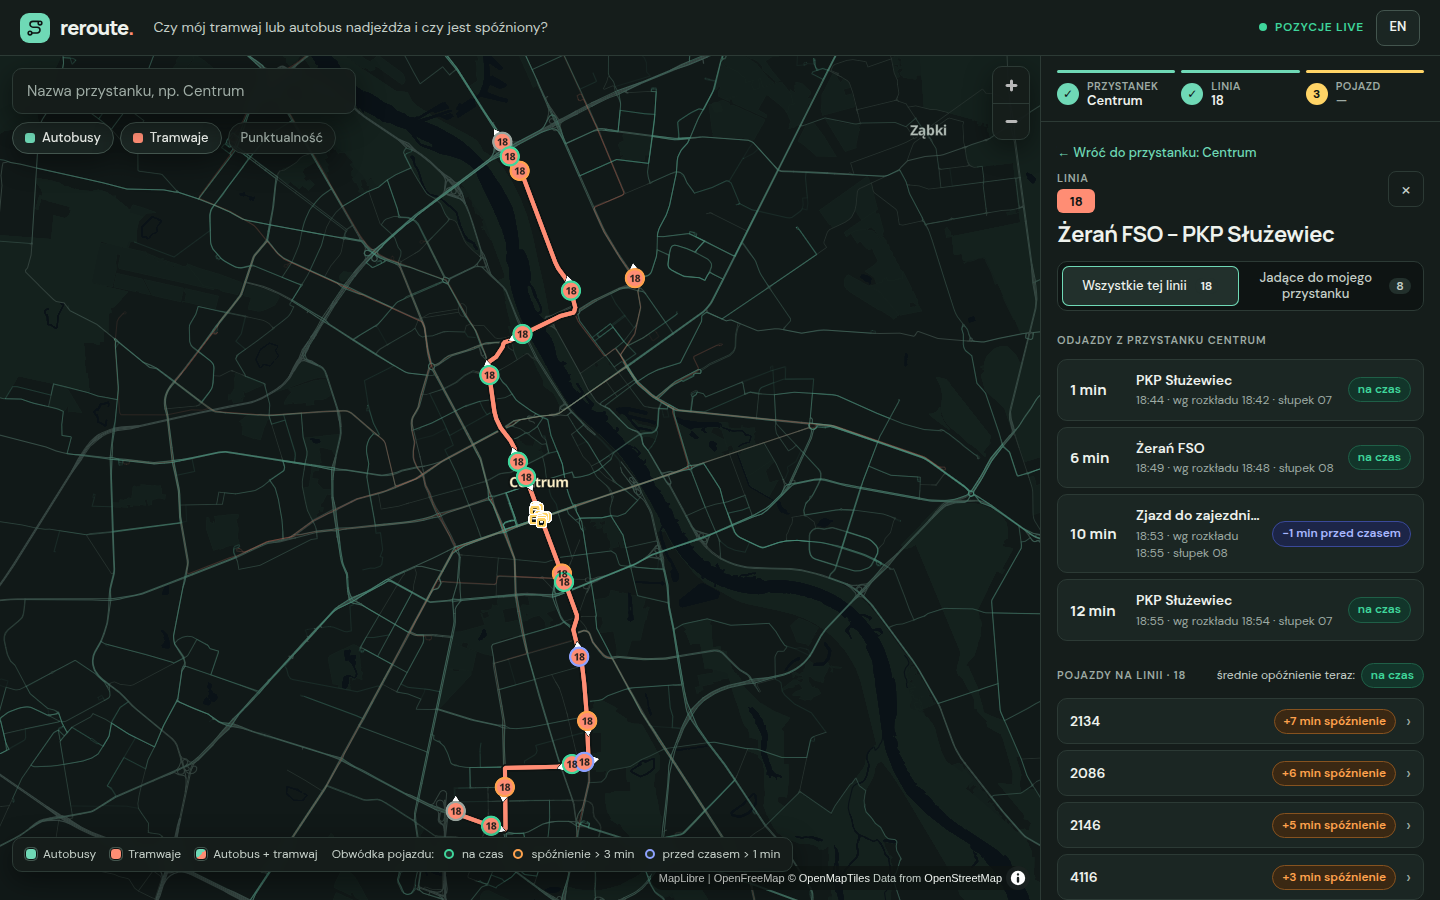
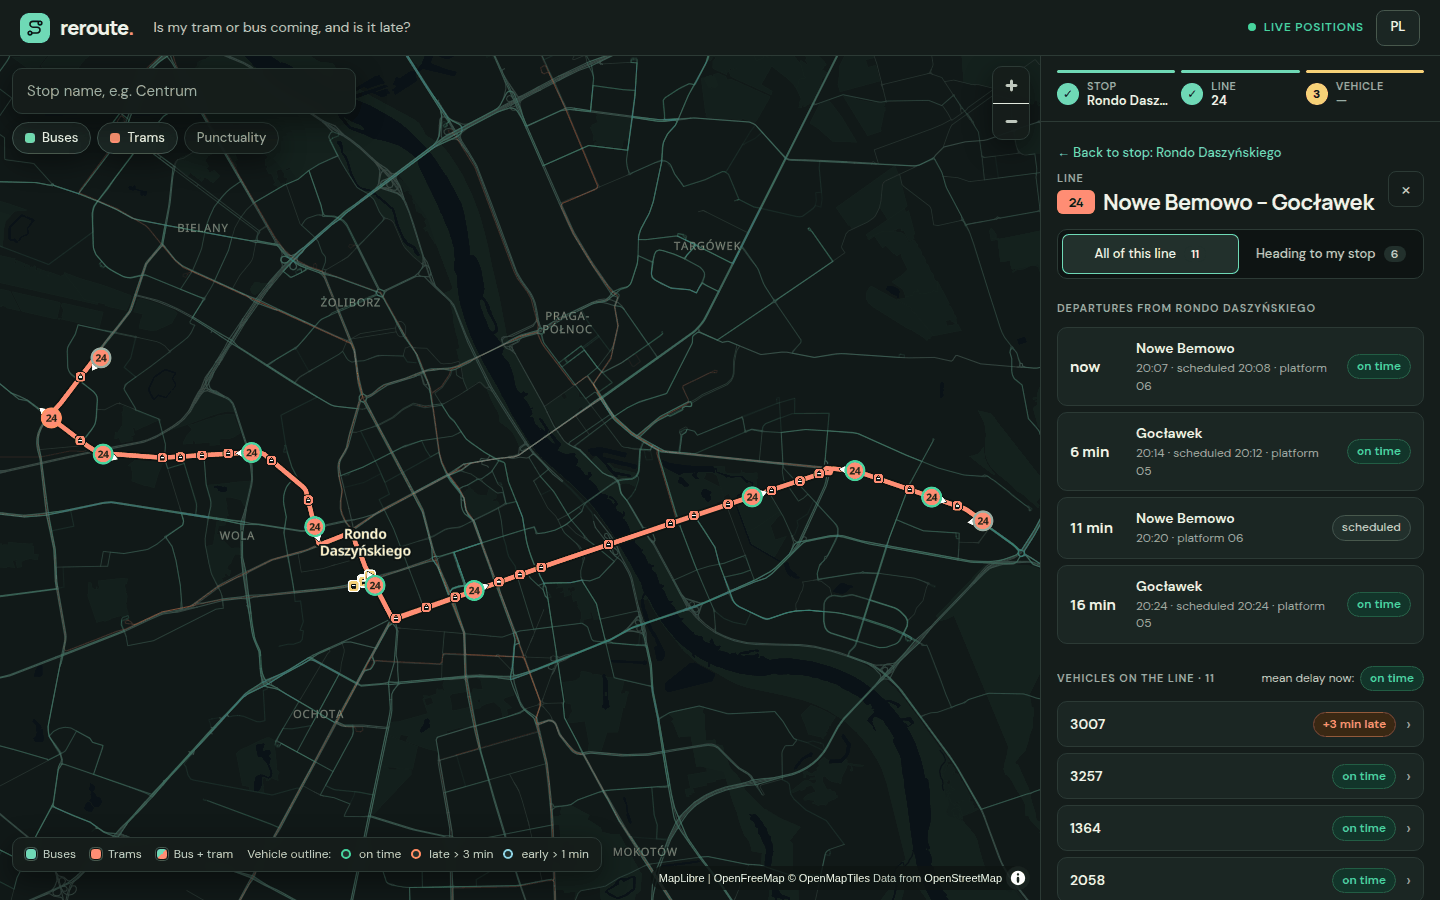
README: live demo links, fresh screenshots, ML next step, self-hosted note (#15)
* Replace the screenshots with fresh captures of the live deployment

Three images (stop and line selected at 1440 px, the same at 400 px),
each under 200 KB, instead of eleven 400-660 KB images from a local run
plus the before/ set.

* Put the live demo, status and portfolio links at the top

Also use the new live screenshots in the README, state that the machine
learning delay model is the next step with data already being collected,
add a Self-hosted note, and say 'narrow screens' instead of 'phone' for
the bottom sheet.

* Remove leftover disruption-simulation sections

The old Performance, Key technical decisions and Limitations sections
described the removed closure simulator and duplicated the current ones.

diff --git a/README.md b/README.md
@@ -1,6 +1,10 @@
 # Reroute
 
-**A live Warsaw transit map that answers one question: is my tram or bus coming, and is it late?** Click a stop to see every line serving it with the next timetable departures and, where a live vehicle of that trip can be matched, its delay; pick a line to see its route and its moving vehicles; click a vehicle for its delay against the schedule and its next stops. Underneath, a collector records every vehicle observation and stop arrival so a delay-prediction model can be trained later.
+**A live Warsaw transit map that answers one question: is my tram or bus coming, and is it late?**
+
+**[Live demo](https://reroute.maciejzielinski.dev)** · [Status](https://status.maciejzielinski.dev) · [Portfolio](https://maciejzielinski.dev)
+
+Click a stop to see every line serving it with the next timetable departures and, where a live vehicle of that trip can be matched, its delay; pick a line to see its route and its moving vehicles; click a vehicle for its delay against the schedule and its next stops. Underneath, a collector records every vehicle observation and stop arrival. The machine-learning delay model that will use that data is the next step; it is not built yet.
 
 [![CI](https://github.com/MaciejZiel/Reroute/actions/workflows/ci.yml/badge.svg)](https://github.com/MaciejZiel/Reroute/actions/workflows/ci.yml)
 [![License: MIT](https://img.shields.io/badge/license-MIT-green.svg)](LICENSE)
@@ -8,11 +12,17 @@
 ![FastAPI + PostGIS](https://img.shields.io/badge/FastAPI-PostGIS-009688.svg)
 ![React + MapLibre](https://img.shields.io/badge/React-MapLibre-3178c6.svg)
 
-![The calm default view: a muted dark basemap, quiet route lines and no vehicles until you ask for them](docs/screenshots/overview.png)
+[![Tram line 24 selected from Rondo Daszyńskiego: route, stops, live vehicles and departures with delays](docs/screenshots/line.png)](https://reroute.maciejzielinski.dev)
+
+## Status and self-hosting
+
+- **Live now:** the map, departures with delays estimated from live positions, line and vehicle views and the per-line punctuality view, at <https://reroute.maciejzielinski.dev> (uptime on the [status page](https://status.maciejzielinski.dev)).
+- **Self-hosted:** the public instance runs on a home server, not on a cloud platform.
+- **Next step, not built yet:** a machine-learning model that predicts delays. The data for it is already being collected: vehicle observations and derived stop arrivals are stored continuously, and raw feed snapshots are archived. Until a model exists, `/api/predictions` simply assumes the current delay persists.
 
 ## What it does
 
-- **Three steps: stop, line, vehicle.** A progress rail at the top of the panel shows where you are; finished steps are clickable to go back. On a phone the panel is a bottom sheet (tap or drag the handle between peek, half and full height).
+- **Three steps: stop, line, vehicle.** A progress rail at the top of the panel shows where you are; finished steps are clickable to go back. On narrow screens the panel is a bottom sheet (tap or drag the handle between peek, half and full height).
 - **Quiet by default.** No vehicles are drawn until you pick a line. A single switch, "Show all vehicles" (off by default), draws the whole fleet as small unlabelled dots for those who want the city-wide picture; names appear only when zoomed in.
 - **Stop panel.** Search by name (diacritics-insensitive) or zoom in and click a stop; see all lines at the station with their next timetable departures. Departures with a matched live vehicle show the delay and the expected time; late vehicles stay listed until they pass, vehicles that already passed disappear.
 - **Mode-aware stop icons.** Bus stops are mint, tram stops coral and stops served by both are split; a small glyph says which. Stops are hidden at city zoom (the route lines carry the overview), thin out by collision as you zoom in, get names from zoom 16 and the selected station is highlighted in gold with a single label.
@@ -20,26 +30,14 @@
 - **Vehicle detail.** Click a vehicle: delay against the timetable, status (waiting at the first stop, off route, stale position) and the next stops with scheduled and expected times.
 - **Delay colours.** Vehicle outlines are green (on time), orange (more than 3 min late), blue (more than 1 min early) or grey (unknown).
 - **Punctuality (secondary).** Per-line share of early, on-time and late vehicles and a delay trend, from the per-minute rollup the collector writes.
-- **Bilingual, responsive UI** (Polish and English; on a phone the panel sits under the map).
-- **Data pipeline for prediction.** The collector stores per-vehicle observations, derived stop arrival events and service alerts; `app/features.py` exports leak-free training rows and `/api/predictions` is the contract a trained model plugs into (today: the current delay persists).
+- **Bilingual, responsive UI** (Polish and English; on narrow screens the panel sits under the map).
+- **Data pipeline for prediction.** The collector stores per-vehicle observations, derived stop arrival events and service alerts; `app/features.py` exports leak-free training rows and `/api/predictions` is the contract a trained model plugs into (today: the current delay persists; the ML model is the next step).
 
-| All vehicles (switch on) | Stop selected |
+| Stop selected | Mobile: stop and line |
 | --- | --- |
-| ![The whole fleet as small dots, no labels at city zoom](docs/screenshots/all-vehicles.png) | ![Centrum station highlighted with mode-aware stop icons and the lines serving it](docs/screenshots/stop.png) |
+| ![Rondo Daszyńskiego station with the lines serving it and their next departures](docs/screenshots/stop.png) | ![Line 24 selected on a 400 px wide screen, with the bottom sheet under the map](docs/screenshots/mobile-line.png) |
 
-| Line focus | Only vehicles heading to my stop |
-| --- | --- |
-| ![Tram 18: route, stops and all of its live vehicles](docs/screenshots/line.png) | ![The same line limited to the vehicles that still have to reach the selected stop](docs/screenshots/line-heading.png) |
-
-| Vehicle detail | Punctuality (secondary view) |
-| --- | --- |
-| ![A tram with its delay against the timetable and next stops](docs/screenshots/vehicle.png) | ![Share of early, on-time and late vehicles per line and a delay trend](docs/screenshots/punctuality.png) |
-
-| Phone: stop | Phone: line |
-| --- | --- |
-| ![Bottom sheet over the map with the lines at the stop](docs/screenshots/mobile-stop.png) | ![Line focus with the bottom sheet at half height](docs/screenshots/mobile-line.png) |
-
-Screenshots are from the live Warsaw data on 13 October 2026, taken with `playwright-cli` against a local run.
+Screenshots are of the live deployment, taken with `playwright-cli` on 13 October 2026 at 1440 px and 400 px widths.
 
 ## Architecture
 
@@ -129,43 +127,6 @@ npm run build       # type check + production build
 To run the dev server against a backend without CORS set-up: `API_PROXY_TARGET=http://localhost:8000 VITE_API_URL= npm run dev`.
 
 The `TEST_DATABASE_URL` database must be named `*_test` and have PostGIS available: it is wiped. Without it the pure tests still run: service-day and DST arithmetic, vehicle projection, delays and arrival events (after-midnight trips, the 25 October DST night, loop lines, gaps), a trimmed recording of the real Warsaw feed against its timetables (`backend/tests/fixtures/`), GTFS parsing, features and the predictor seam. The database tests cover the import and migrations, partitions, idempotent writes, state restore after a restart, alerts, incremental backfill, and the API (search, departures with live/late/passed/stale vehicles, 24:xx trips and DST, 503/404, predictions). CI runs them against a PostGIS service plus the frontend type check and build.
-
-## Performance
-
-Measured on the full Warsaw network (318 bus and tram lines, 7,253 stops, 20,164 timed segments; feed of 9 Oct 2026) with the stack running in Docker Compose on a 16-thread laptop, using `backend/scripts/benchmark_api.py --runs 60 --seed 7` (random stops and lines from the network, closures and slowdowns alternating, 30 min):
-
-| Request | Before (`main` at #3) p50 / p95 | After p50 / p95 |
-| --- | --- | --- |
-| `POST /api/simulations`, stop | 397 / 487 ms | 30 / 84 ms |
-| `POST /api/simulations`, line | 465 / 846 ms | 105 / 483 ms |
-| `POST /api/simulations`, all | 416 / 756 ms | 59 / 442 ms |
-| `GET /api/network` | 731 ms, 10.5 MB | 65 ms, 2.4 MB gzip |
-
-What changed:
-
-- **Graph cache.** The stop graph (stops, segments, ~55k walking links from a lat/lon grid) took ~0.35 s to load and build on every request. It is now built once per data mode and timetable version (`feed_metadata.downloaded_at`), so a re-import invalidates it; the first query after start-up still pays ~0.5 s.
-- **Search reuse and bounds.** Undisrupted searches are cached per origin and target set (the graph is immutable), edges are pre-grouped per stop and line, and a disrupted search stops one hour past the usual journey time instead of sweeping the city for unreachable stops.
-- **Network response.** The 10.5 MB GeoJSON is serialised and gzipped once per timetable instead of on every page load.
-- **Index.** `route_stops(stop_id)` for the "lines at these stops" lookups (the primary key starts with `route_id`).
-
-The remaining cost is pure-Python Dijkstra: closing a long line samples up to eight journeys of 30–60 min across the city, and each search settles several thousand states.
-
-## Key technical decisions
-
-- **Demo data first, real data on demand.** A fresh `docker compose up` works offline with a fictional network, and every API response carries `data_mode` (`demo` or `live`) plus a source notice, so the UI can always say what it is showing. The 100 MB GTFS import is an explicit step, and it replaces only non-demo rows.
-- **Live feed fetched lazily, with a short shared cache.** Vehicle positions are not stored. The first request after the 12-second cache expires fetches the protobuf feed, behind a lock so concurrent requests don't hit the source twice. This keeps the server stateless and respectful of a free public feed, at the cost of one slower request per refresh.
-- **Shortest paths on a route-expanded stop graph.** The importer keeps one *segment* per pair of consecutive stops of a route, with the mean scheduled run time and the number of trips on the busiest service day of the feed. A search state is "at stop S" or "on line L at stop S", so boarding can carry an expected wait (half the headway, 1–15 min) plus a 2-minute transfer penalty, and walking links stops within 400 m (×1.3 street detour at 1.2 m/s). A closure deletes the affected segments, a slowdown multiplies their run times, and plain Dijkstra with an early exit once all targets are settled is fast enough (a few ms per origin on the 7k-stop network). Journeys are sampled per affected line and direction: two stops either side of a closed stop, or five evenly spaced stops along a closed line. There is no demand data, so "added minutes" are per journey, not passenger-weighted.
-- **Delays from positions, not from a predictions feed.** The Warsaw feed publishes positions with trip ids but no delays, so the delay is the feed timestamp minus the scheduled time interpolated at the vehicle's projection onto the trip's stop-to-stop lines. The service day is whichever of today/yesterday gives the smaller delay (GTFS times can exceed 24:00). Vehicles more than 250 m from their trip, standing at the first stop (layover) or outside −15…+90 min are skipped. Trip timetables are stored compactly: ~1,900 shared stop patterns plus one comma-separated departures string per trip (~80 MB in PostgreSQL for ~270k trips). Only per-line aggregates are kept, for 7 days.
-- **Cheap geo filtering for nearby stops.** Candidates come from a latitude/longitude bounding box in SQL, then exact haversine distances are computed in Python. With ~7k stops this is fast and easy to unit test. PostGIS geometries are stored for route shapes and stop locations, so the query can move to `ST_DWithin` with a spatial index when needed.
-
-## Limitations / next steps
-
-- Live positions can include stale or ghost vehicles from the source feed; vehicles older than 2 minutes are flagged as stale but still shown.
-- Delay estimates use straight lines between stops rather than the route shape, so a vehicle on a winding section can be placed slightly off; stop dwell times are not modelled. Snapshots are only taken while someone has the map open or `collect_delays` runs, and the demo network shows a clearly labelled fictional punctuality history.
-- The schema is created with `create_all` at startup, with an in-place column type fix; Alembic migrations would replace this.
-- Results are timetable estimates, not an official forecast or passenger count: there is no demand data, departures are averaged into a headway (no exact connection times), and a closed line is assumed to have no replacement service. The legacy impact score (affected stops × duration) is still returned for compatibility.
-- The graph and network caches live in the API process, which suits the single-worker Compose setup; several workers would each build their own copy (~0.5 s on first use). Line closures on long routes still take a few hundred ms in pure-Python Dijkstra; A* or contraction hierarchies would be the next step.
-- Tests cover GTFS parsing, routing and delay estimation without a database; there are no API-level tests against PostGIS or frontend tests yet.
 
 ## Performance
 
